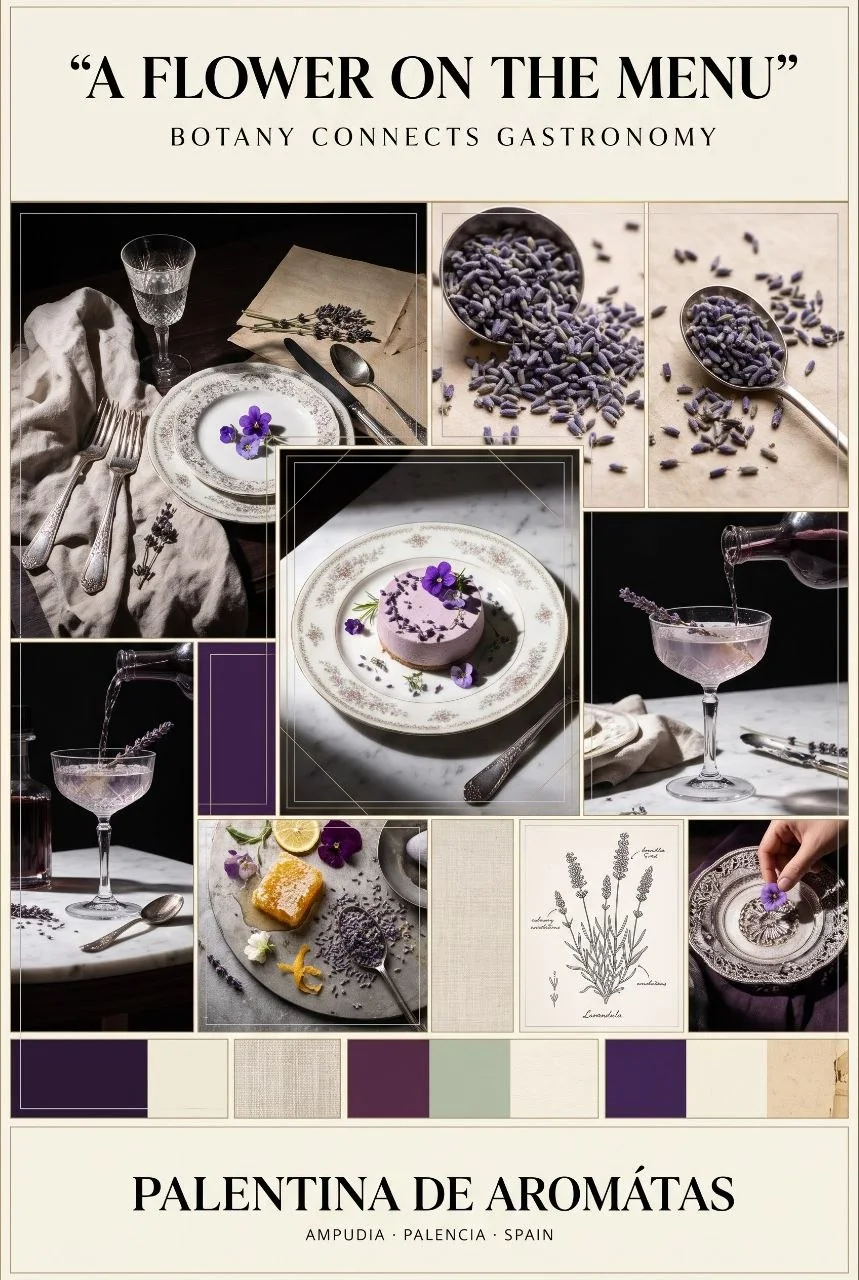
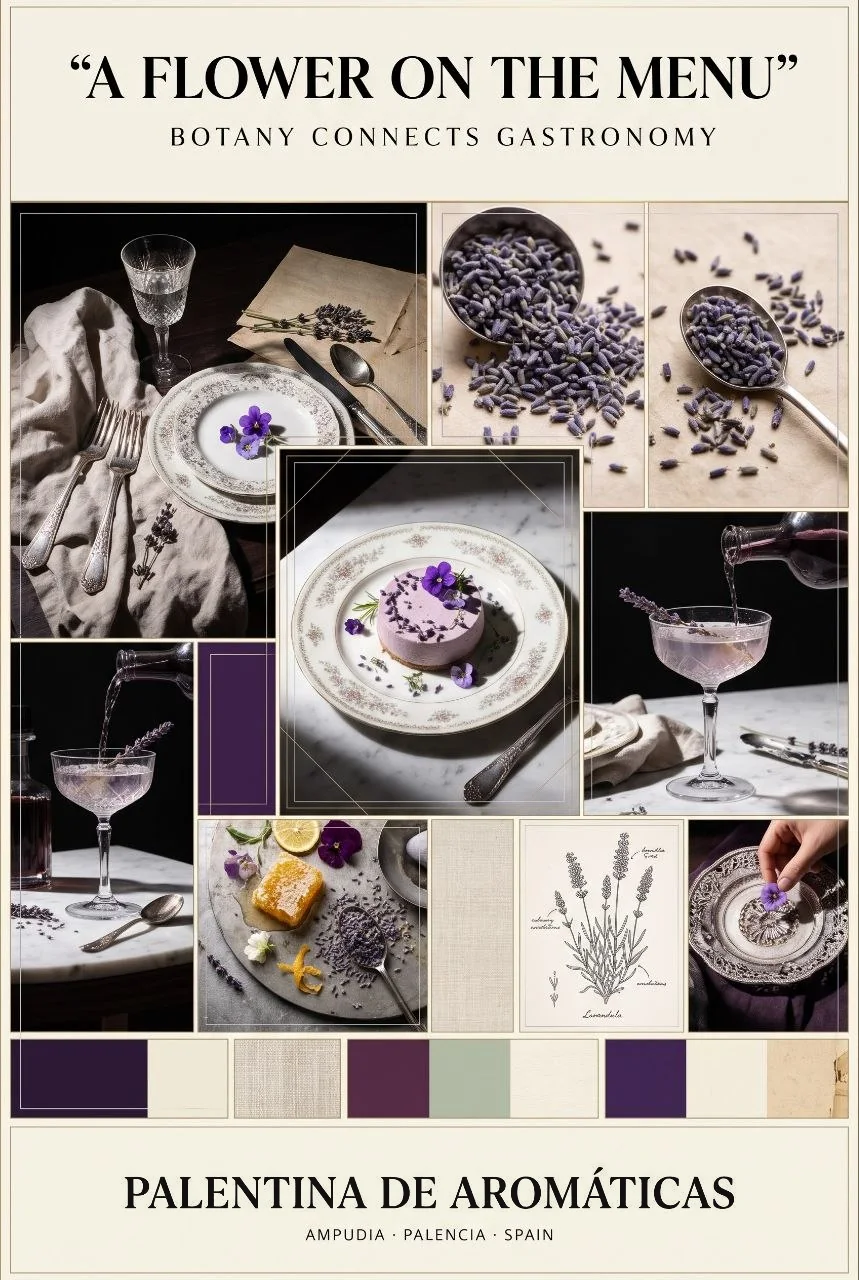
Scroll-driven horizontal rails; fix brand name on lavender menu moodboard
Vertical scroll pins the Work and Gallery sections on desktop and moves
their rails sideways at one speed (cases right-to-left, albums left-to-right),
with a slight zoom on the focused card. Mobile and reduced-motion keep
native swipe and tabs. territory-03 now reads Palentina de Aromáticas.

Claude-Session: https://claude.ai/code/session_01J9mLrab39zd6DsmTFbRYat

Changed region(s): [[0.1513, 0.9062, 0.8475, 0.9688]]

diff --git a/strategic.js b/strategic.js
@@ -699,12 +699,17 @@
       let current = -1;
       const sync = () => {
         const index = Math.max(0, Math.min(cases.length - 1, Math.round(track.scrollLeft / Math.max(1, track.clientWidth))));
-        track.style.height = `${cases[index].offsetHeight}px`;
+        track.style.height = track.classList.contains('is-pinned') ? `${Math.max(...cases.map(item => item.offsetHeight))}px` : `${cases[index].offsetHeight}px`;
         if (index === current) return;
         current = index;
         tabs.forEach((tab, n) => { tab.classList.toggle('active', n === index); tab.setAttribute('aria-selected', String(n === index)); });
       };
-      const go = index => track.scrollTo({ left: Math.max(0, Math.min(cases.length - 1, index)) * track.clientWidth, behavior: 'smooth' });
+      const go = index => {
+        const target = Math.max(0, Math.min(cases.length - 1, index));
+        if (track.classList.contains('is-pinned') && typeof track.pinGoTo === 'function') { track.pinGoTo(target / (cases.length - 1)); return; }
+        track.scrollTo({ left: target * track.clientWidth, behavior: 'smooth' });
+      };
+      track.addEventListener('pinchange', sync);
       let frame = 0;
       track.addEventListener('scroll', () => { window.cancelAnimationFrame(frame); frame = window.requestAnimationFrame(sync); }, { passive: true });
       tabs.forEach((tab, n) => tab.addEventListener('click', () => go(n)));
@@ -723,6 +728,112 @@
       window.addEventListener('scroll', update, { passive: true });
       update();
     }
+  }
+
+
+  function bindPinnedRails() {
+    const query = window.matchMedia('(min-width: 901px) and (prefers-reduced-motion: no-preference)');
+    const SPEED = .55;
+    const MIN_FIT = .78;
+    const panel = document.getElementById('albumPanel');
+    if (panel && panel.parentElement !== document.body) document.body.appendChild(panel);
+    const rails = [
+      { section: document.getElementById('work'), track: document.querySelector('.case-track'), direction: 1, focus: .045, settle: true },
+      { section: document.getElementById('gallery'), track: document.getElementById('albumRail'), direction: -1, focus: .04 }
+    ].filter(rail => rail.section && rail.track);
+    rails.forEach(rail => {
+      const inner = document.createElement('div');
+      inner.className = 'pin-inner';
+      while (rail.section.firstChild) inner.appendChild(rail.section.firstChild);
+      rail.section.appendChild(inner);
+      rail.inner = inner;
+      rail.items = [...rail.track.children];
+      rail.current = 0;
+      rail.active = false;
+      rail.track.pinGoTo = progress => {
+        const top = rail.section.getBoundingClientRect().top + window.scrollY - rail.navHeight;
+        window.scrollTo({ top: top + progress * rail.distance, behavior: 'smooth' });
+      };
+    });
+
+    const measure = () => {
+      const navHeight = document.querySelector('nav')?.offsetHeight || 67;
+      rails.forEach(rail => {
+        rail.section.classList.remove('pin-on');
+        rail.track.classList.remove('is-pinned', 'is-reversed');
+        rail.inner.style.zoom = '';
+        rail.section.style.height = '';
+        rail.items.forEach(item => { item.style.transform = ''; });
+        rail.active = false;
+        if (!query.matches) { rail.track.dispatchEvent(new Event('pinchange')); return; }
+        rail.section.classList.add('pin-on');
+        rail.track.classList.add('is-pinned');
+        if (rail.direction < 0) rail.track.classList.add('is-reversed');
+        rail.track.dispatchEvent(new Event('pinchange'));
+        const available = window.innerHeight - navHeight;
+        const fit = Math.min(1, available / rail.inner.offsetHeight);
+        const overflow = rail.track.scrollWidth - rail.track.clientWidth;
+        if (fit < MIN_FIT || overflow < 8) {
+          rail.section.classList.remove('pin-on');
+          rail.track.classList.remove('is-pinned', 'is-reversed');
+          rail.track.dispatchEvent(new Event('pinchange'));
+          return;
+        }
+        if (fit < 1) rail.inner.style.zoom = String(fit);
+        rail.navHeight = navHeight;
+        rail.overflow = rail.track.scrollWidth - rail.track.clientWidth;
+        rail.distance = rail.overflow * SPEED;
+        rail.inner.style.top = `${navHeight / fit}px`;
+        rail.section.style.height = `${rail.inner.getBoundingClientRect().height + rail.distance}px`;
+        rail.active = true;
+        rail.current = -1;
+      });
+      update(true);
+    };
+
+    let frame = 0;
+    const update = immediate => {
+      let moving = false;
+      rails.forEach(rail => {
+        if (!rail.active) return;
+        const rect = rail.section.getBoundingClientRect();
+        if (!immediate && (rect.bottom < -200 || rect.top > window.innerHeight + 200)) return;
+        const progress = Math.max(0, Math.min(1, (rail.navHeight - rect.top) / rail.distance));
+        const target = (rail.direction > 0 ? progress : 1 - progress) * rail.overflow;
+        if (immediate || rail.current < 0) rail.current = target;
+        else rail.current += (target - rail.current) * .14;
+        if (Math.abs(target - rail.current) < .4) rail.current = target; else moving = true;
+        rail.track.scrollLeft = rail.current;
+        const box = rail.track.getBoundingClientRect();
+        const centre = box.left + box.width / 2;
+        rail.items.forEach(item => {
+          const itemBox = item.getBoundingClientRect();
+          const offset = Math.min(1, Math.abs(itemBox.left + itemBox.width / 2 - centre) / (box.width * .55));
+          item.style.transform = `scale(${(1 - rail.focus + rail.focus * (1 - offset) * (1 - offset) + (rail.direction < 0 ? rail.focus * .5 : 0)).toFixed(4)})`;
+        });
+      });
+      frame = moving ? window.requestAnimationFrame(() => update(false)) : 0;
+    };
+    const request = () => { if (!frame) frame = window.requestAnimationFrame(() => update(false)); };
+    let settleTimer = 0;
+    const settle = () => {
+      rails.forEach(rail => {
+        if (!rail.active || !rail.settle || rail.items.length < 2) return;
+        const top = rail.section.getBoundingClientRect().top + window.scrollY - rail.navHeight;
+        const progress = (window.scrollY - top) / rail.distance;
+        if (progress <= 0.01 || progress >= .99) return;
+        const steps = rail.items.length - 1;
+        const nearest = Math.round(progress * steps) / steps;
+        if (Math.abs(nearest - progress) * rail.distance > 3) window.scrollTo({ top: top + nearest * rail.distance, behavior: 'smooth' });
+      });
+    };
+    window.addEventListener('scroll', () => { request(); window.clearTimeout(settleTimer); settleTimer = window.setTimeout(settle, 260); }, { passive: true });
+    let resizeTimer = 0;
+    window.addEventListener('resize', () => { window.clearTimeout(resizeTimer); resizeTimer = window.setTimeout(measure, 180); });
+    window.addEventListener('load', measure);
+    document.querySelectorAll('.lang-btn').forEach(button => button.addEventListener('click', () => window.setTimeout(measure, 60)));
+    document.fonts?.ready.then(measure);
+    measure();
   }
 
   function renderContact() {
@@ -939,5 +1050,6 @@
   bindInteractions();
   applyLanguage(localStorage.getItem('lang') || 'en');
   bindRails();
+  bindPinnedRails();
   document.body.classList.add('strategic-ready');
 })();

diff --git a/strategic.css b/strategic.css
@@ -1439,3 +1439,24 @@ body.album-open { overflow: hidden; }
   .case-track .case-media::-webkit-scrollbar { display: none; }
   .case-track .case-media-frame { flex: 0 0 46%; scroll-snap-align: start; }
 }
+
+/* Vertical scroll drives horizontal rails (desktop) */
+html, body { overflow-x: clip; }
+.pin-on { padding-top: 0; padding-bottom: 0; }
+.pin-on > .pin-inner { position: sticky; padding: 26px 0 28px; }
+.pin-on .section-head { margin-bottom: 22px; }
+.pin-on .rail-arrows { display: none; }
+.pin-on .case-nav { margin-bottom: 20px; }
+.is-pinned { overflow: hidden; scroll-snap-type: none; }
+.case-track.is-pinned { transition: none; }
+.is-pinned > * { transform-origin: center center; will-change: transform; transition: none; }
+.album-rail.is-pinned { padding: 10px 0 12px; }
+.album-rail.is-reversed > :nth-child(1) { order: 8; }
+.album-rail.is-reversed > :nth-child(2) { order: 7; }
+.album-rail.is-reversed > :nth-child(3) { order: 6; }
+.album-rail.is-reversed > :nth-child(4) { order: 5; }
+.album-rail.is-reversed > :nth-child(5) { order: 4; }
+.album-rail.is-reversed > :nth-child(6) { order: 3; }
+.album-rail.is-reversed > :nth-child(7) { order: 2; }
+.album-rail.is-reversed > :nth-child(8) { order: 1; }
+.album-card.reveal { transition: opacity 1s var(--ease-quiet); }

diff --git a/index.html b/index.html
@@ -19,7 +19,7 @@
 <link rel="preconnect" href="https://fonts.googleapis.com">
 <link rel="preconnect" href="https://fonts.gstatic.com" crossorigin="">
 <link href="https://fonts.googleapis.com/css2?family=DM+Serif+Display:ital@0;1&amp;family=Space+Mono:ital,wght@0,400;0,700;1,400&amp;family=DM+Sans:wght@300;400;500&amp;display=swap" rel="stylesheet">
-<link rel="stylesheet" href="strategic.css?v=20261111-compact">
+<link rel="stylesheet" href="strategic.css?v=20261111-pin">
 <noscript><style>.reveal{opacity:1;transform:none}</style></noscript>
 </head>
 <body><div class="scroll-progress" aria-hidden="true"></div><a class="skip-link" href="#main-content" data-i18n="skip">Skip to content</a>
@@ -544,7 +544,7 @@
   <div class="lb-counter" id="lb-counter"></div>
 </div>
 
-<script src="strategic.js?v=20261111-compact"></script>
+<script src="strategic.js?v=20261111-pin"></script>
 
 
 </body></html>

diff --git a/index.source.html b/index.source.html
@@ -20,7 +20,7 @@
 <link rel="preconnect" href="https://fonts.googleapis.com">
 <link rel="preconnect" href="https://fonts.gstatic.com" crossorigin>
 <link href="https://fonts.googleapis.com/css2?family=DM+Serif+Display:ital@0;1&amp;family=Space+Mono:ital,wght@0,400;0,700;1,400&amp;family=DM+Sans:wght@300;400;500&amp;display=swap" rel="stylesheet">
-<link rel="stylesheet" href="strategic.css?v=20261111-compact">
+<link rel="stylesheet" href="strategic.css?v=20261111-pin">
 </head>
 <body>
 <nav></nav>
@@ -292,6 +292,6 @@
   <div class="lb-counter" id="lb-counter"></div>
 </div>
 
-<script src="strategic.js?v=20261111-compact"></script>
+<script src="strategic.js?v=20261111-pin"></script>
 </body>
 </html>
